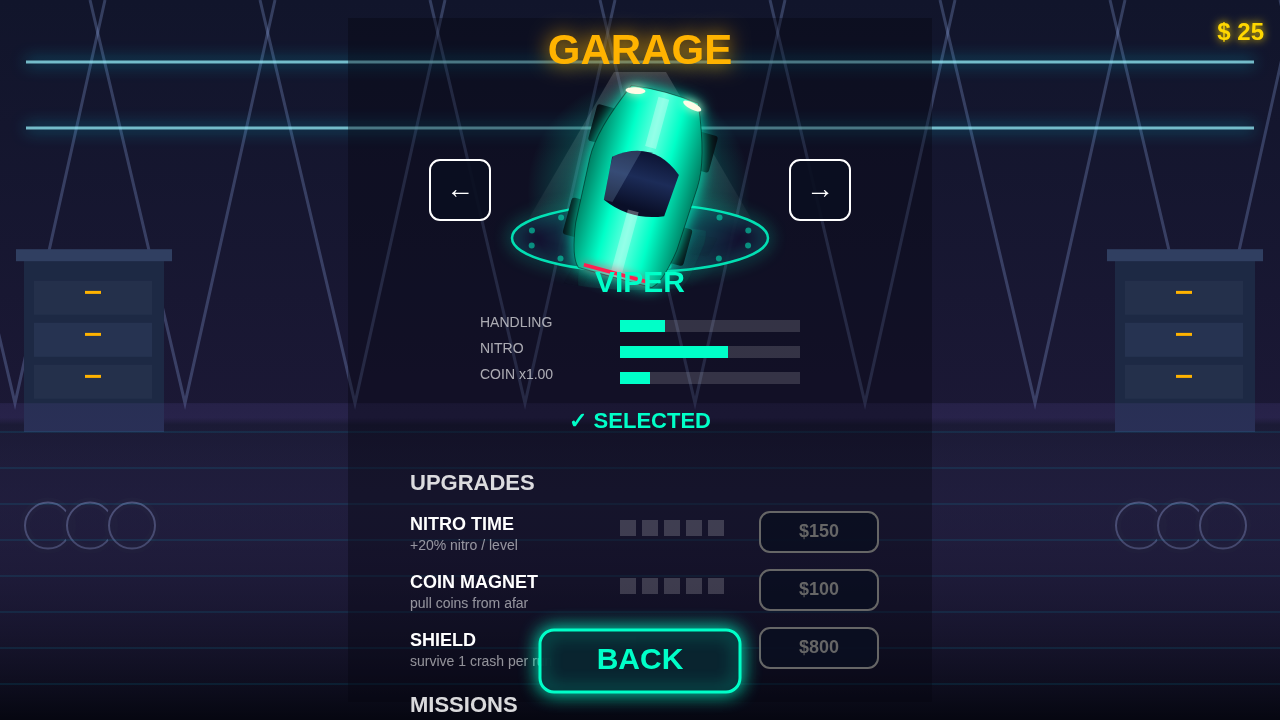
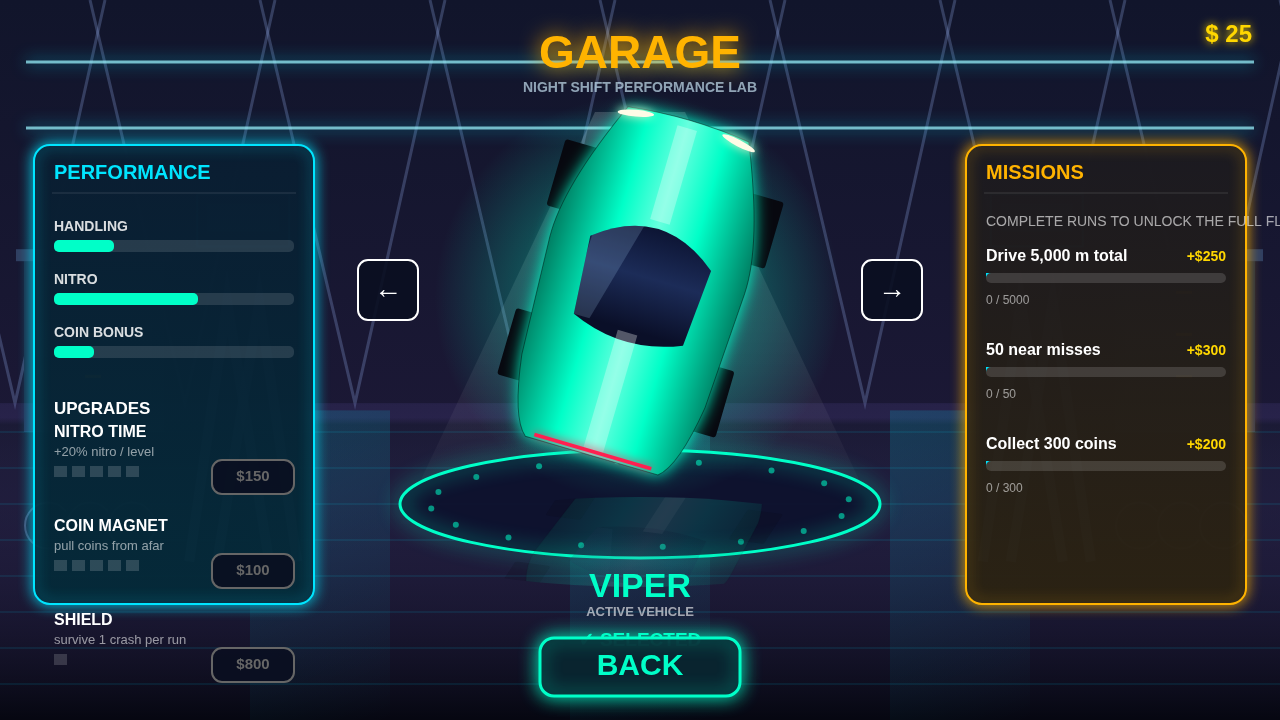
fix: rescue desktop opening and garage presentation

diff --git a/src/main.js b/src/main.js
@@ -133,10 +133,22 @@ function resetRun() {
   G.shake = 0; G.coinCombo = 0; G.coinComboT = 0;
   G.nmChain = 0; G.nmChainT = 0;
   G.runNearMisses = 0; G.runNitros = 0; G.runBestChain = 0;
-  G.time = 0; G.spawnT = 0.8; G.pickupT = 2.2; G.nextHappy = 1000;
+  G.time = 0; G.spawnT = 4.4; G.pickupT = 5.0; G.nextHappy = 1000;
   G.crashDone = false;
   G.crashing = false; G.slowmoT = 0; G.flash = 0;
   G.tilt = 0; G.fov = 1; G.texScroll = 0; G.railScroll = 0;
+  // Script the first few seconds instead of asking the random spawner to make
+  // a good first impression. Outside cars frame a safe starting lane; the
+  // marked car is far enough ahead to invite, rather than force, a close pass.
+  const opening = [
+    { lane: 0, y: HORIZON + 30, rel: 0.78, color: '#ff2d78', shape: 4 },
+    { lane: 3, y: HORIZON - 86, rel: 0.73, color: '#ffb300', shape: 1 },
+    { lane: 2, y: HORIZON - 244, rel: 0.78, color: '#00e5ff', shape: 6, marked: true },
+  ];
+  for (const o of opening) G.obstacles.push({ ...o, h: CAR_H, truck: false, passed: false, intro: true });
+  // The reward line reaches the readable mid-road area in the opening moments
+  // without dropping a pickup underneath the player at launch.
+  for (let i = 0; i < 5; i++) G.pickups.push({ lane: 1, y: HORIZON - 690 - i * 54, kind: 'coin', intro: true });
   runResult = null;
 }
 
@@ -348,8 +360,18 @@ function update(dt) {
   G.texScroll = (G.texScroll + G.speed * dt) % 160;
   G.railScroll = (G.railScroll + G.speed * dt) % 70;
 
-  // props
-  for (const p of props) { p.y += G.speed * dt * 0.9; if (p.y > H + 60) { p.y = -60; const r = Math.random(); p.lamp = r < 0.35; p.bill = r >= 0.35 && r < 0.5; p.billHue = Math.random() < 0.5 ? '#ff2d78' : '#00e5ff'; p.billTxt = ['NEON', 'RUSH', 'TURBO', 'DRIVE', '24H'][Math.floor(Math.random() * 5)]; } }
+  // roadside choreography: dense rhythm on desktop, while portrait keeps a
+  // little breathing room.  Each recycled prop gets a new readable silhouette.
+  for (const p of props) {
+    p.y += G.speed * dt * 0.9;
+    if (p.y > H + 100) {
+      p.y = HORIZON - 80;
+      const kinds = ['lamp', 'barrier', 'bill', 'palm', 'tower'];
+      p.kind = kinds[Math.floor(Math.random() * kinds.length)];
+      p.billHue = Math.random() < 0.5 ? '#ff2d78' : '#00e5ff';
+      p.billTxt = ['NEON', 'RUSH', 'TURBO', 'DRIVE', '24H'][Math.floor(Math.random() * 5)];
+    }
+  }
 
   // spawn — dynamic difficulty: traffic density ramps slower in the 1st minute
   G.spawnT -= dt;
@@ -501,9 +523,12 @@ function rebuildScenery() {
     x: Math.random() * W, y: Math.random() * Math.max(92, HORIZON - 8),
     r: Math.random() * 1.6 + 0.4, s: Math.random() * 0.5 + 0.2,
   }));
-  props = Array.from({ length: 12 }, (_, i) => ({
-    y: (i / 12) * H, left: i % 2 === 0, lamp: i % 3 === 0, bill: i % 4 === 3,
-    billHue: i % 2 ? '#ff2d78' : '#00e5ff', billTxt: ['NEON', 'RUSH', 'TURBO'][i % 3],
+  const propCount = isDesktop ? 34 : 16;
+  const propKinds = ['lamp', 'barrier', 'bill', 'palm', 'tower', 'lamp', 'barrier', 'bill'];
+  props = Array.from({ length: propCount }, (_, i) => ({
+    y: HORIZON + (i / propCount) * (H - HORIZON + 80), left: i % 2 === 0,
+    kind: propKinds[i % propKinds.length],
+    billHue: i % 2 ? '#ff2d78' : '#00e5ff', billTxt: ['NEON', 'RUSH', 'TURBO', 'VOID', 'NITE'][i % 5],
   }));
   SKY_FAR = genSkyline(24, 52);
   SKY_MID = genSkyline(34, 74);
@@ -833,7 +858,7 @@ function drawRoad() {
   }
   // lamp light pools on the road
   for (const p of props) {
-    if (!p.lamp || p.y < HORIZON) continue;
+    if (p.kind !== 'lamp' || p.y < HORIZON) continue;
     const s = perspS(p.y);
     const edge = p.left ? ROAD_X + 40 : ROAD_X + ROAD_W - 40;
     const px = perspX(edge, p.y);
@@ -901,11 +926,11 @@ function drawRoad() {
     const px = perspX(side, p.y);
     if (smear > 0.05) { // motion blur streak under prop
       ctx.globalAlpha = 0.16 * smear;
-      ctx.fillStyle = p.lamp ? '#ffe27a' : '#7c4dff';
+      ctx.fillStyle = p.kind === 'lamp' ? '#ffe27a' : '#7c4dff';
       ctx.fillRect(px - 2 * s, p.y - 40 * s, 4 * s, 70 * s * (0.6 + smear));
       ctx.globalAlpha = 1;
     }
-    if (p.bill) {
+    if (p.kind === 'bill') {
       // neon billboard on posts
       const bw = 64 * s, bh = 34 * s;
       ctx.fillStyle = '#20264a';
@@ -925,7 +950,7 @@ function drawRoad() {
         ctx.fillText(p.billTxt || 'NEON', px, p.y - 58 * s - bh / 2);
       }
       ctx.shadowBlur = 0;
-    } else if (p.lamp) {
+    } else if (p.kind === 'lamp') {
       ctx.fillStyle = '#39406b';
       ctx.fillRect(px - 2.6 * s, p.y - 62 * s, 5.2 * s, 62 * s);
       const armDir = p.left ? 1 : -1;
@@ -933,6 +958,30 @@ function drawRoad() {
       ctx.shadowColor = '#ffe27a'; ctx.shadowBlur = 16;
       ctx.fillStyle = '#ffe27a';
       ctx.beginPath(); ctx.arc(px + armDir * 24 * s, p.y - 58 * s, 6 * s, 0, Math.PI * 2); ctx.fill();
+      ctx.shadowBlur = 0;
+    } else if (p.kind === 'barrier') {
+      // chunky foreground crash barriers give the road a useful close layer
+      // and punctuate the lamps instead of leaving a dark shoulder.
+      const bw = 82 * s, bh = 20 * s;
+      ctx.fillStyle = '#222a46';
+      roundRect(px - bw / 2, p.y - bh, bw, bh, 3 * s); ctx.fill();
+      ctx.fillStyle = '#ffb300';
+      for (let stripe = -2; stripe <= 2; stripe++) {
+        ctx.save(); ctx.translate(px + stripe * 18 * s, p.y - bh * 0.5); ctx.rotate(-0.48);
+        ctx.fillRect(-3 * s, -bh * 0.52, 6 * s, bh * 1.05); ctx.restore();
+      }
+      ctx.fillStyle = '#3a4566';
+      ctx.fillRect(px - bw * 0.32, p.y, 5 * s, 20 * s); ctx.fillRect(px + bw * 0.26, p.y, 5 * s, 20 * s);
+    } else if (p.kind === 'tower') {
+      // near roadside storefront / service tower with animated windows
+      const tw = 44 * s, th = 116 * s;
+      ctx.fillStyle = '#171b37'; ctx.fillRect(px - tw / 2, p.y - th, tw, th);
+      ctx.fillStyle = 'rgba(170,230,255,0.5)';
+      for (let wy = p.y - th + 12 * s; wy < p.y - 12 * s; wy += 18 * s) {
+        ctx.fillRect(px - tw * 0.28, wy, tw * 0.16, 6 * s); ctx.fillRect(px + tw * 0.12, wy, tw * 0.16, 6 * s);
+      }
+      ctx.shadowColor = p.billHue; ctx.shadowBlur = 10;
+      ctx.fillStyle = p.billHue; ctx.fillRect(px - tw * 0.6, p.y - th - 8 * s, tw * 1.2, 6 * s);
       ctx.shadowBlur = 0;
     } else {
       // neon palm
@@ -1014,6 +1063,12 @@ function drawGame() {
       }
     }
     drawCarShape(x, yc, CAR_W * s, o.h * s, o.color, true, false, o.shape != null ? o.shape : 0, 0);
+    if (o.marked && G.time < 8) {
+      ctx.strokeStyle = '#ff2d78'; ctx.lineWidth = Math.max(1, 2 * s);
+      ctx.shadowColor = '#ff2d78'; ctx.shadowBlur = 12;
+      ctx.beginPath(); ctx.ellipse(x, yc, CAR_W * s * 0.82, o.h * s * 0.62, 0, 0, Math.PI * 2); ctx.stroke();
+      ctx.shadowBlur = 0;
+    }
   }
 
   // nitro trail
@@ -1233,6 +1288,20 @@ function drawHUD() {
     ctx.fillStyle = '#9ff3ff'; ctx.font = '900 13px sans-serif'; ctx.textAlign = 'center';
     ctx.fillText('NITRO', W / 2, 95);
   }
+  // An explicit launch event reads as a game objective in screenshots and
+  // points to the marked opening vehicle without obstructing the road view.
+  if (state === 'playing' && G.time < 8) {
+    const eventW = isDesktop ? 270 : 230;
+    const eventX = W / 2 - eventW / 2;
+    const eventY = 16;
+    ctx.fillStyle = 'rgba(19,8,35,0.84)'; ctx.strokeStyle = '#ff2d78'; ctx.lineWidth = 2;
+    ctx.shadowColor = '#ff2d78'; ctx.shadowBlur = 12;
+    roundRect(eventX, eventY, eventW, 45, 10); ctx.fill(); ctx.stroke(); ctx.shadowBlur = 0;
+    ctx.fillStyle = '#ff8fb3'; ctx.font = '900 15px sans-serif'; ctx.textAlign = 'center';
+    ctx.fillText('CLOSE CALL CHALLENGE  +' + 15, W / 2, eventY + 20);
+    ctx.fillStyle = 'rgba(255,255,255,0.68)'; ctx.font = 'bold 11px sans-serif';
+    ctx.fillText('thread past the marked rival', W / 2, eventY + 35);
+  }
   // A concise first-run callout makes the boost loop discoverable without
   // covering traffic.  It lives in a lower corner on landscape broadcast HUD.
   if (state === 'playing' && G.time < 8 && G.nitroT <= 0) {
@@ -1406,9 +1475,121 @@ function drawGarageWorkshop() {
   ctx.fillStyle = floor; ctx.fillRect(0, H * 0.56, W, H * 0.44);
   ctx.strokeStyle = 'rgba(0,229,255,0.18)'; ctx.lineWidth = 1;
   for (let y = H * 0.60; y < H; y += 36) { ctx.beginPath(); ctx.moveTo(0, y); ctx.lineTo(W, y); ctx.stroke(); }
+  // Workshop depth cues: lift arms, service monitors and long floor-light
+  // reflections. They intentionally live behind the panels so the garage is
+  // a room first and an interface second.
+  for (const x of [W * 0.19, W * 0.81]) {
+    ctx.strokeStyle = 'rgba(116,145,195,0.7)'; ctx.lineWidth = 10;
+    ctx.beginPath(); ctx.moveTo(x - 54, H * 0.78); ctx.lineTo(x - 16, H * 0.42); ctx.lineTo(x + 26, H * 0.78); ctx.stroke();
+    ctx.beginPath(); ctx.moveTo(x + 54, H * 0.78); ctx.lineTo(x + 16, H * 0.42); ctx.lineTo(x - 26, H * 0.78); ctx.stroke();
+    ctx.fillStyle = '#0b1024'; ctx.fillRect(x - 46, H * 0.27, 92, 52);
+    ctx.strokeStyle = '#00e5ff'; ctx.lineWidth = 2; ctx.strokeRect(x - 46, H * 0.27, 92, 52);
+    ctx.fillStyle = 'rgba(0,229,255,0.32)'; ctx.fillRect(x - 36, H * 0.283, 72, 28);
+  }
+  for (const x of [W * 0.25, W * 0.5, W * 0.75]) {
+    const rg = ctx.createLinearGradient(x - 70, H * 0.57, x + 70, H);
+    rg.addColorStop(0, 'rgba(0,229,255,0.16)'); rg.addColorStop(1, 'rgba(0,229,255,0)');
+    ctx.fillStyle = rg; ctx.fillRect(x - 70, H * 0.57, 140, H * 0.43);
+  }
+}
+
+function drawGaragePanel(x, y, w, h, title, color) {
+  const pg = ctx.createLinearGradient(x, y, x, y + h);
+  pg.addColorStop(0, 'rgba(11,15,35,0.93)'); pg.addColorStop(1, 'rgba(5,8,21,0.82)');
+  ctx.fillStyle = pg; ctx.strokeStyle = color; ctx.lineWidth = 2;
+  ctx.shadowColor = color; ctx.shadowBlur = 14;
+  roundRect(x, y, w, h, 16); ctx.fill(); ctx.stroke(); ctx.shadowBlur = 0;
+  ctx.fillStyle = color; ctx.font = '900 20px sans-serif'; ctx.textAlign = 'left'; ctx.textBaseline = 'middle';
+  ctx.fillText(title, x + 20, y + 28);
+  ctx.strokeStyle = 'rgba(255,255,255,0.14)'; ctx.lineWidth = 1;
+  ctx.beginPath(); ctx.moveTo(x + 18, y + 48); ctx.lineTo(x + w - 18, y + 48); ctx.stroke();
+}
+
+function drawGarageDesktop() {
+  drawGarageWorkshop();
+  const car = CARS[garageIdx];
+  const owned = M.owned.includes(car.id);
+  const selected = M.selected === car.id;
+  const pad = 34;
+  const panelW = Math.min(360, Math.max(280, W * 0.205));
+  const panelY = 145;
+  const panelH = H - panelY - 116;
+  const leftX = pad, rightX = W - pad - panelW, gc = W / 2;
+  const centerL = leftX + panelW + 26, centerR = rightX - 26;
+  const centerW = centerR - centerL;
+
+  ctx.textAlign = 'center'; ctx.textBaseline = 'middle';
+  ctx.shadowColor = '#ffb300'; ctx.shadowBlur = 20;
+  ctx.fillStyle = '#ffb300'; ctx.font = '900 46px sans-serif'; ctx.fillText('GARAGE', gc, 55); ctx.shadowBlur = 0;
+  ctx.fillStyle = 'rgba(210,239,255,0.65)'; ctx.font = 'bold 14px sans-serif';
+  ctx.fillText('NIGHT SHIFT PERFORMANCE LAB', gc, 88);
+  drawWallet(W - 28, 42);
+
+  drawGaragePanel(leftX, panelY, panelW, panelH, 'PERFORMANCE', '#00e5ff');
+  drawGaragePanel(rightX, panelY, panelW, panelH, 'MISSIONS', '#ffb300');
+
+  // Central showroom, deliberately large enough to read as a vehicle bay at
+  // 1080p instead of a compact menu illustration.
+  const garageCarW = Math.min(210, CAR_W * 1.45);
+  const garageCarH = garageCarW * 1.70;
+  const carY = Math.max(290, H * 0.38);
+  const platformY = carY + garageCarH * 0.62;
+  const ga = G.time * 0.55;
+  const spotlight = ctx.createLinearGradient(0, 110, 0, platformY + 30);
+  spotlight.addColorStop(0, 'rgba(255,255,255,0.17)'); spotlight.addColorStop(1, 'rgba(255,255,255,0)');
+  ctx.fillStyle = spotlight;
+  ctx.beginPath(); ctx.moveTo(gc - 45, 112); ctx.lineTo(gc + 45, 112); ctx.lineTo(gc + 240, platformY + 20); ctx.lineTo(gc - 240, platformY + 20); ctx.closePath(); ctx.fill();
+  ctx.save(); ctx.translate(gc, platformY);
+  ctx.fillStyle = 'rgba(14,18,46,0.96)'; ctx.beginPath(); ctx.ellipse(0, 0, Math.min(255, centerW * 0.40), 54, 0, 0, Math.PI * 2); ctx.fill();
+  ctx.strokeStyle = car.color; ctx.lineWidth = 3; ctx.shadowColor = car.color; ctx.shadowBlur = 20;
+  ctx.beginPath(); ctx.ellipse(0, 0, Math.min(255, centerW * 0.40), 54, 0, 0, Math.PI * 2); ctx.stroke(); ctx.shadowBlur = 0;
+  ctx.fillStyle = car.color;
+  for (let i = 0; i < 16; i++) { const a = ga + i * Math.PI / 8; ctx.globalAlpha = 0.55; ctx.beginPath(); ctx.arc(Math.cos(a) * Math.min(225, centerW * 0.35), Math.sin(a) * 43, 3, 0, Math.PI * 2); ctx.fill(); }
+  ctx.restore(); ctx.globalAlpha = 1;
+  ctx.save(); ctx.globalAlpha = 0.14; ctx.beginPath(); ctx.ellipse(gc, platformY + 38, Math.min(245, centerW * 0.38), 45, 0, 0, Math.PI * 2); ctx.clip(); ctx.translate(gc, platformY + 48); ctx.scale(1, -0.45); ctx.rotate(-ga); drawCarShape(0, 0, garageCarW, garageCarH, car.color, false, true, car.shape); ctx.restore();
+  ctx.save(); ctx.translate(gc, carY); ctx.rotate(ga); drawCarShape(0, 0, garageCarW, garageCarH, car.color, true, true, car.shape); ctx.restore();
+  const arrowGap = Math.min(centerW * 0.42, 300);
+  drawSmallButton('prevCar', gc - arrowGap - 30, carY - 30, 60, 60, '←', '#fff', 28);
+  drawSmallButton('nextCar', gc + arrowGap - 30, carY - 30, 60, 60, '→', '#fff', 28);
+  ctx.fillStyle = car.color; ctx.font = '900 34px sans-serif'; ctx.textAlign = 'center'; ctx.fillText(car.name, gc, platformY + 84);
+  ctx.fillStyle = 'rgba(255,255,255,0.6)'; ctx.font = 'bold 13px sans-serif'; ctx.fillText(selected ? 'ACTIVE VEHICLE' : owned ? 'OWNED VEHICLE' : 'LOCKED VEHICLE', gc, platformY + 108);
+  if (selected) { ctx.fillStyle = '#00ffc8'; ctx.font = 'bold 19px sans-serif'; ctx.fillText('✓ SELECTED', gc, platformY + 137); }
+  else if (owned) drawSmallButton('selectCar', gc - 90, platformY + 116, 180, 44, 'SELECT', '#00ffc8', 20);
+  else drawSmallButton('buyCar', gc - 112, platformY + 116, 224, 44, 'BUY  $' + car.cost, M.wallet >= car.cost ? '#ffd700' : '#666', 20);
+
+  const stats = [['HANDLING', (car.handling - 8) / 8], ['NITRO', car.nitro / 5], ['COIN BONUS', (car.coinMul - 0.75) / 1.5]];
+  stats.forEach(([label, value], i) => {
+    const y = panelY + 82 + i * 53;
+    ctx.fillStyle = 'rgba(255,255,255,0.85)'; ctx.font = 'bold 14px sans-serif'; ctx.textAlign = 'left'; ctx.fillText(label, leftX + 20, y);
+    ctx.fillStyle = 'rgba(255,255,255,0.12)'; roundRect(leftX + 20, y + 13, panelW - 40, 12, 5); ctx.fill();
+    ctx.fillStyle = car.color; roundRect(leftX + 20, y + 13, (panelW - 40) * Math.max(0.08, Math.min(1, value)), 12, 5); ctx.fill();
+  });
+  ctx.fillStyle = '#fff'; ctx.font = '900 17px sans-serif'; ctx.textAlign = 'left'; ctx.fillText('UPGRADES', leftX + 20, panelY + 264);
+  Object.keys(UPGRADES).forEach((k, i) => {
+    const u = UPGRADES[k], lvl = M.upg[k], y = panelY + 288 + i * 94;
+    ctx.fillStyle = '#fff'; ctx.font = 'bold 16px sans-serif'; ctx.fillText(u.name, leftX + 20, y);
+    ctx.fillStyle = 'rgba(255,255,255,0.56)'; ctx.font = '13px sans-serif'; ctx.fillText(u.desc, leftX + 20, y + 19);
+    for (let p = 0; p < u.max; p++) { ctx.fillStyle = p < lvl ? '#00e5ff' : 'rgba(255,255,255,0.16)'; ctx.fillRect(leftX + 20 + p * 18, y + 33, 13, 11); }
+    if (lvl < u.max) drawSmallButton('upg_' + k, leftX + panelW - 102, y + 27, 82, 34, '$' + u.costs[lvl], M.wallet >= u.costs[lvl] ? '#ffd700' : '#666', 15);
+    else { ctx.fillStyle = '#00ffc8'; ctx.font = 'bold 14px sans-serif'; ctx.fillText('MAX', leftX + panelW - 55, y + 48); }
+  });
+
+  const am = activeMissions();
+  ctx.fillStyle = 'rgba(255,255,255,0.62)'; ctx.font = '14px sans-serif'; ctx.textAlign = 'left'; ctx.fillText('COMPLETE RUNS TO UNLOCK THE FULL FLEET', rightX + 20, panelY + 77);
+  if (!am.length) { ctx.fillStyle = '#00ffc8'; ctx.font = 'bold 17px sans-serif'; ctx.fillText('All missions complete — legend!', rightX + 20, panelY + 114); }
+  am.slice(0, 5).forEach((m, i) => {
+    const y = panelY + 112 + i * 94, cur = Math.min(m.goal, M.stats[m.stat] || 0);
+    ctx.fillStyle = '#fff'; ctx.font = 'bold 16px sans-serif'; ctx.textAlign = 'left'; ctx.fillText(m.name, rightX + 20, y);
+    ctx.fillStyle = '#ffd700'; ctx.font = 'bold 14px sans-serif'; ctx.textAlign = 'right'; ctx.fillText('+$' + m.reward, rightX + panelW - 20, y);
+    ctx.fillStyle = 'rgba(255,255,255,0.14)'; roundRect(rightX + 20, y + 16, panelW - 40, 10, 5); ctx.fill();
+    ctx.fillStyle = '#00e5ff'; roundRect(rightX + 20, y + 16, (panelW - 40) * (cur / m.goal), 10, 5); ctx.fill();
+    ctx.fillStyle = 'rgba(255,255,255,0.55)'; ctx.font = '12px sans-serif'; ctx.textAlign = 'left'; ctx.fillText(cur + ' / ' + m.goal, rightX + 20, y + 44);
+  });
+  drawButton('back', gc - 100, H - 82, 200, 58, 'BACK', '#00ffc8');
 }
 
 function drawGarage() {
+  if (isDesktop) { drawGarageDesktop(); return; }
   drawGarageWorkshop();
   const gc = W / 2;
   const gx = gc - 270;
@@ -1724,6 +1905,7 @@ if (debug) {
       nitroT: G.nitroT,
       shieldReady: G.shieldReady,
       runResult: runResult ? { earned: runResult.earned, doubled: runResult.doubled, missions: runResult.missions.map(m => m.id) } : null,
+      trafficVisible: G.obstacles.filter(o => o.y + o.h > HORIZON && o.y < H).length,
       obstacles: G.obstacles.map(o => ({ lane: o.lane, y: o.y, h: o.h })),
       pickups: G.pickups.map(p => ({ lane: p.lane, y: p.y, kind: p.kind })),
       buttons: buttons.map(b => ({ id: b.id, x: b.x, y: b.y, w: b.w, h: b.h })),
